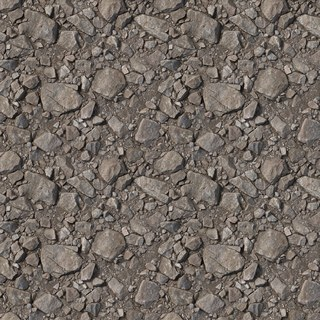
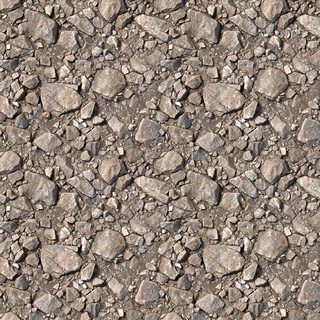
art: 地表提亮加对比；石块与石山密度下调；农田田垄减淡隔格绘制

diff --git a/src/render/renderer.ts b/src/render/renderer.ts
@@ -78,7 +78,7 @@ export class Renderer {
   static async create(canvasHost: HTMLElement, sim: World): Promise<Renderer> {
     const app = new Application();
     await app.init({
-      background: '#0d1210',
+      background: '#121a14',
       resizeTo: window,
       antialias: true,
       autoDensity: true,
@@ -254,8 +254,11 @@ export class Renderer {
           .poly([
             cx, cy - 10, cx + 18, cy, cx, cy + 10, cx - 18, cy,
           ])
-          .fill({ color: TERRAIN_COLOR.ore, alpha: 0.28 + Math.min(0.4, amount / 9000) });
-        ore.moveTo(cx - 8, cy - 2).lineTo(cx + 8, cy + 2).stroke({ width: 1.5, color: 0xd8c25a, alpha: 0.5 });
+          .fill({ color: TERRAIN_COLOR.ore, alpha: 0.14 + Math.min(0.16, amount / 9000 * 0.22) });
+        // 垄线隔一格才画一次，满格都画会碎成一地黄格子
+        if ((x + y) % 2 === 0) {
+          ore.moveTo(cx - 8, cy - 2).lineTo(cx + 8, cy + 2).stroke({ width: 1.5, color: 0xd8c25a, alpha: 0.32 });
+        }
       }
     }
     if (any) this.terrain.addChild(ore);
@@ -333,8 +336,8 @@ export class Renderer {
         if (map.ore[i] > 0 || map.occupied[i] !== 0) continue;
         const h = tileHash(x, y, 37);
         if (t === T_GRASS) {
-          if (h < 0.05) decos.push({ x, y, name: 'tree' });
-          else if (h < 0.068) decos.push({ x, y, name: 'stones' });
+          if (h < 0.04) decos.push({ x, y, name: 'tree' });
+          else if (h < 0.052) decos.push({ x, y, name: 'stones' });
           else if (
             h > 0.95 &&
             (terrainAt(x + 1, y) === T_WATER ||
@@ -350,8 +353,8 @@ export class Renderer {
             (terrainAt(x - 1, y) === T_ROCK ? 1 : 0) +
             (terrainAt(x, y + 1) === T_ROCK ? 1 : 0) +
             (terrainAt(x, y - 1) === T_ROCK ? 1 : 0);
-          if (nb >= 3 && h > 0.82) decos.push({ x, y, name: 'hill' });
-          else if (h > 0.76) decos.push({ x, y, name: 'stones' });
+          if (nb >= 3 && h > 0.9) decos.push({ x, y, name: 'hill' });
+          else if (h > 0.86) decos.push({ x, y, name: 'stones' });
         }
       }
     }

diff --git a/scripts/tune_terrain.py b/scripts/tune_terrain.py
@@ -1,0 +1,23 @@
+from PIL import Image, ImageEnhance
+import os
+
+BASE = os.path.dirname(os.path.abspath(__file__))
+OUT = os.path.join(BASE, '..', 'assets', 'terrain')
+
+# 整体提亮、加对比、加饱和，往"晴天午后"靠，别再有古画那种灰闷感
+# (亮度, 对比, 饱和)
+TUNE = {
+    'grass': (1.26, 1.16, 1.30),
+    'dirt': (1.22, 1.10, 1.12),
+    'water': (1.34, 1.14, 1.12),
+    'rock': (1.26, 1.14, 1.08),
+}
+
+for name, (b, c, s) in TUNE.items():
+    p = os.path.join(OUT, name + '.jpg')
+    im = Image.open(p).convert('RGB')
+    im = ImageEnhance.Brightness(im).enhance(b)
+    im = ImageEnhance.Contrast(im).enhance(c)
+    im = ImageEnhance.Color(im).enhance(s)
+    im.save(p, quality=90)
+    print('tuned', name)
